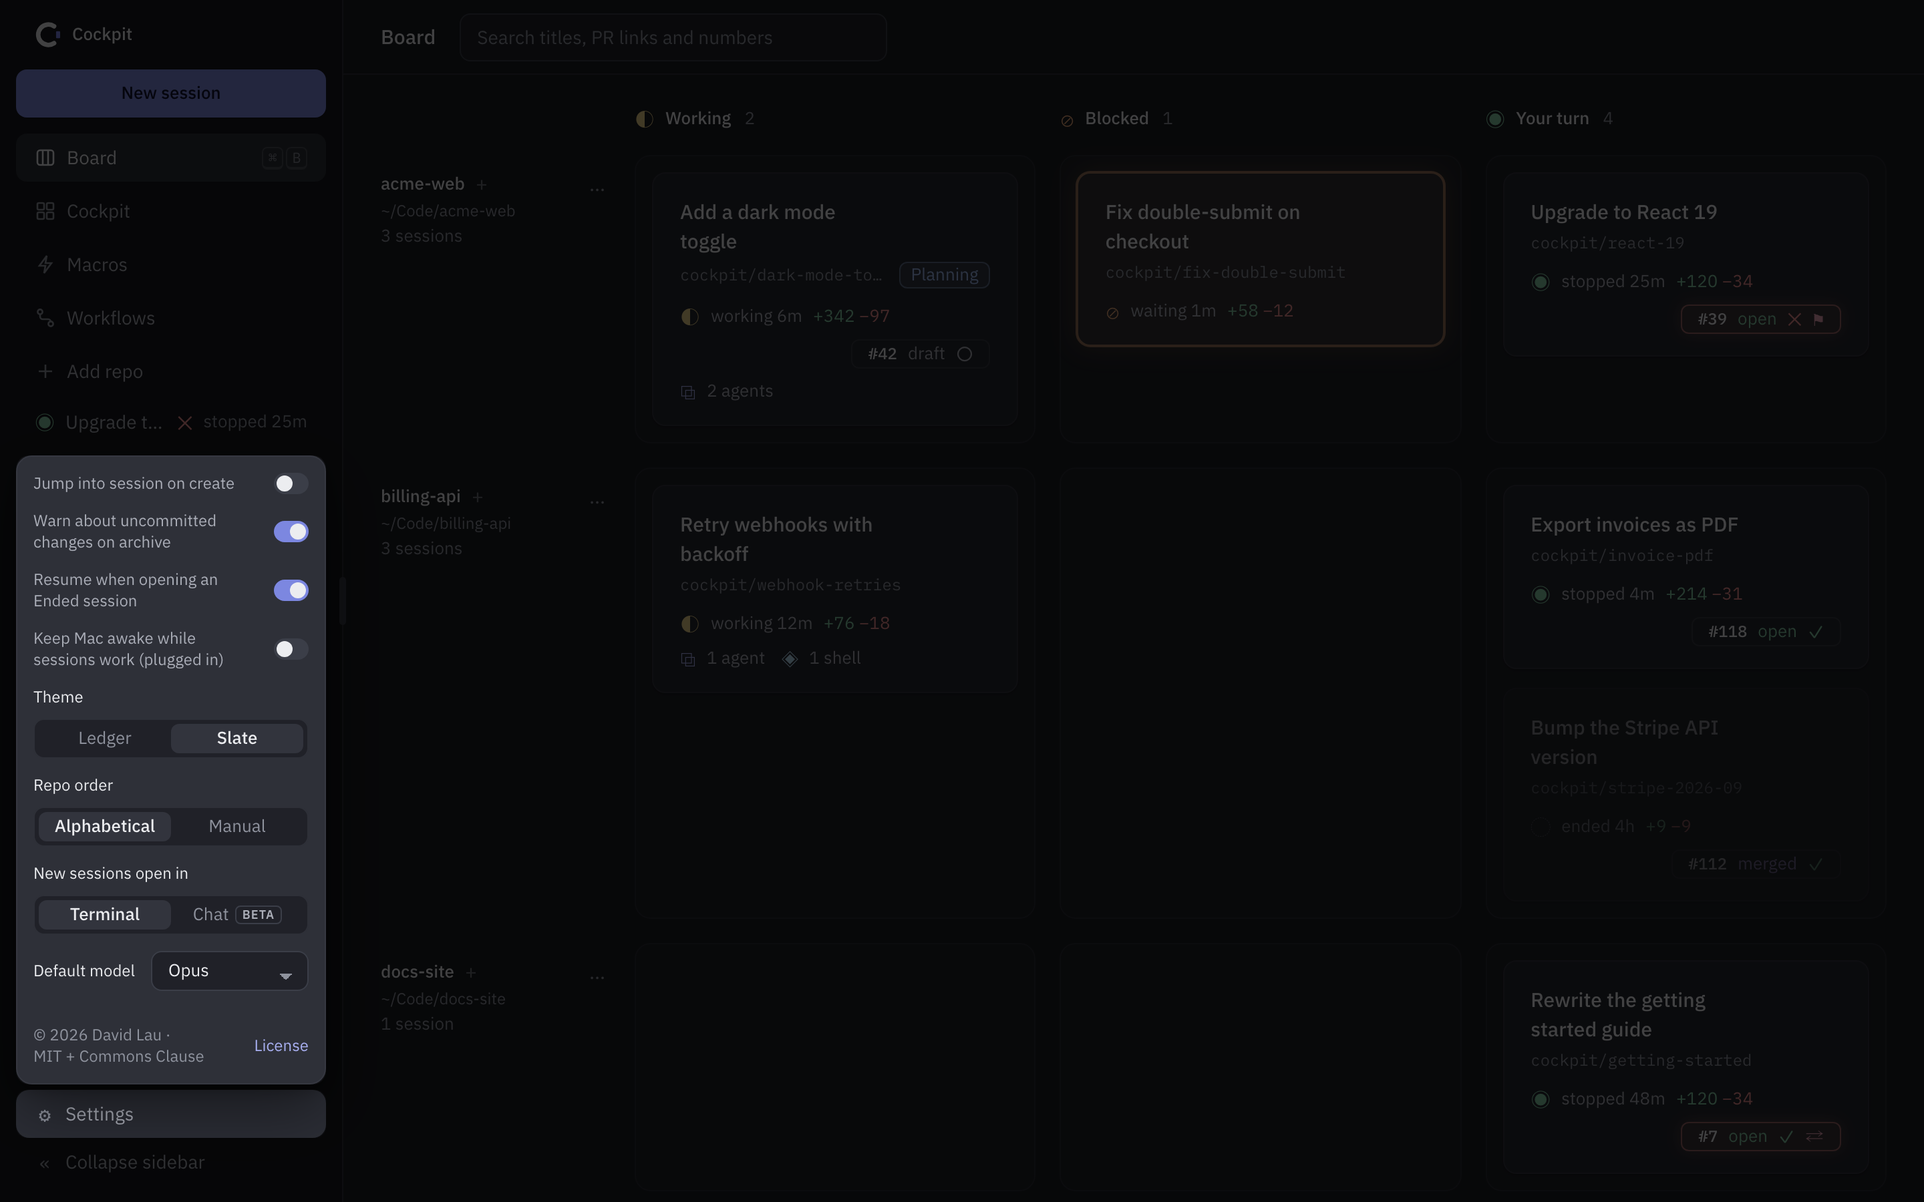
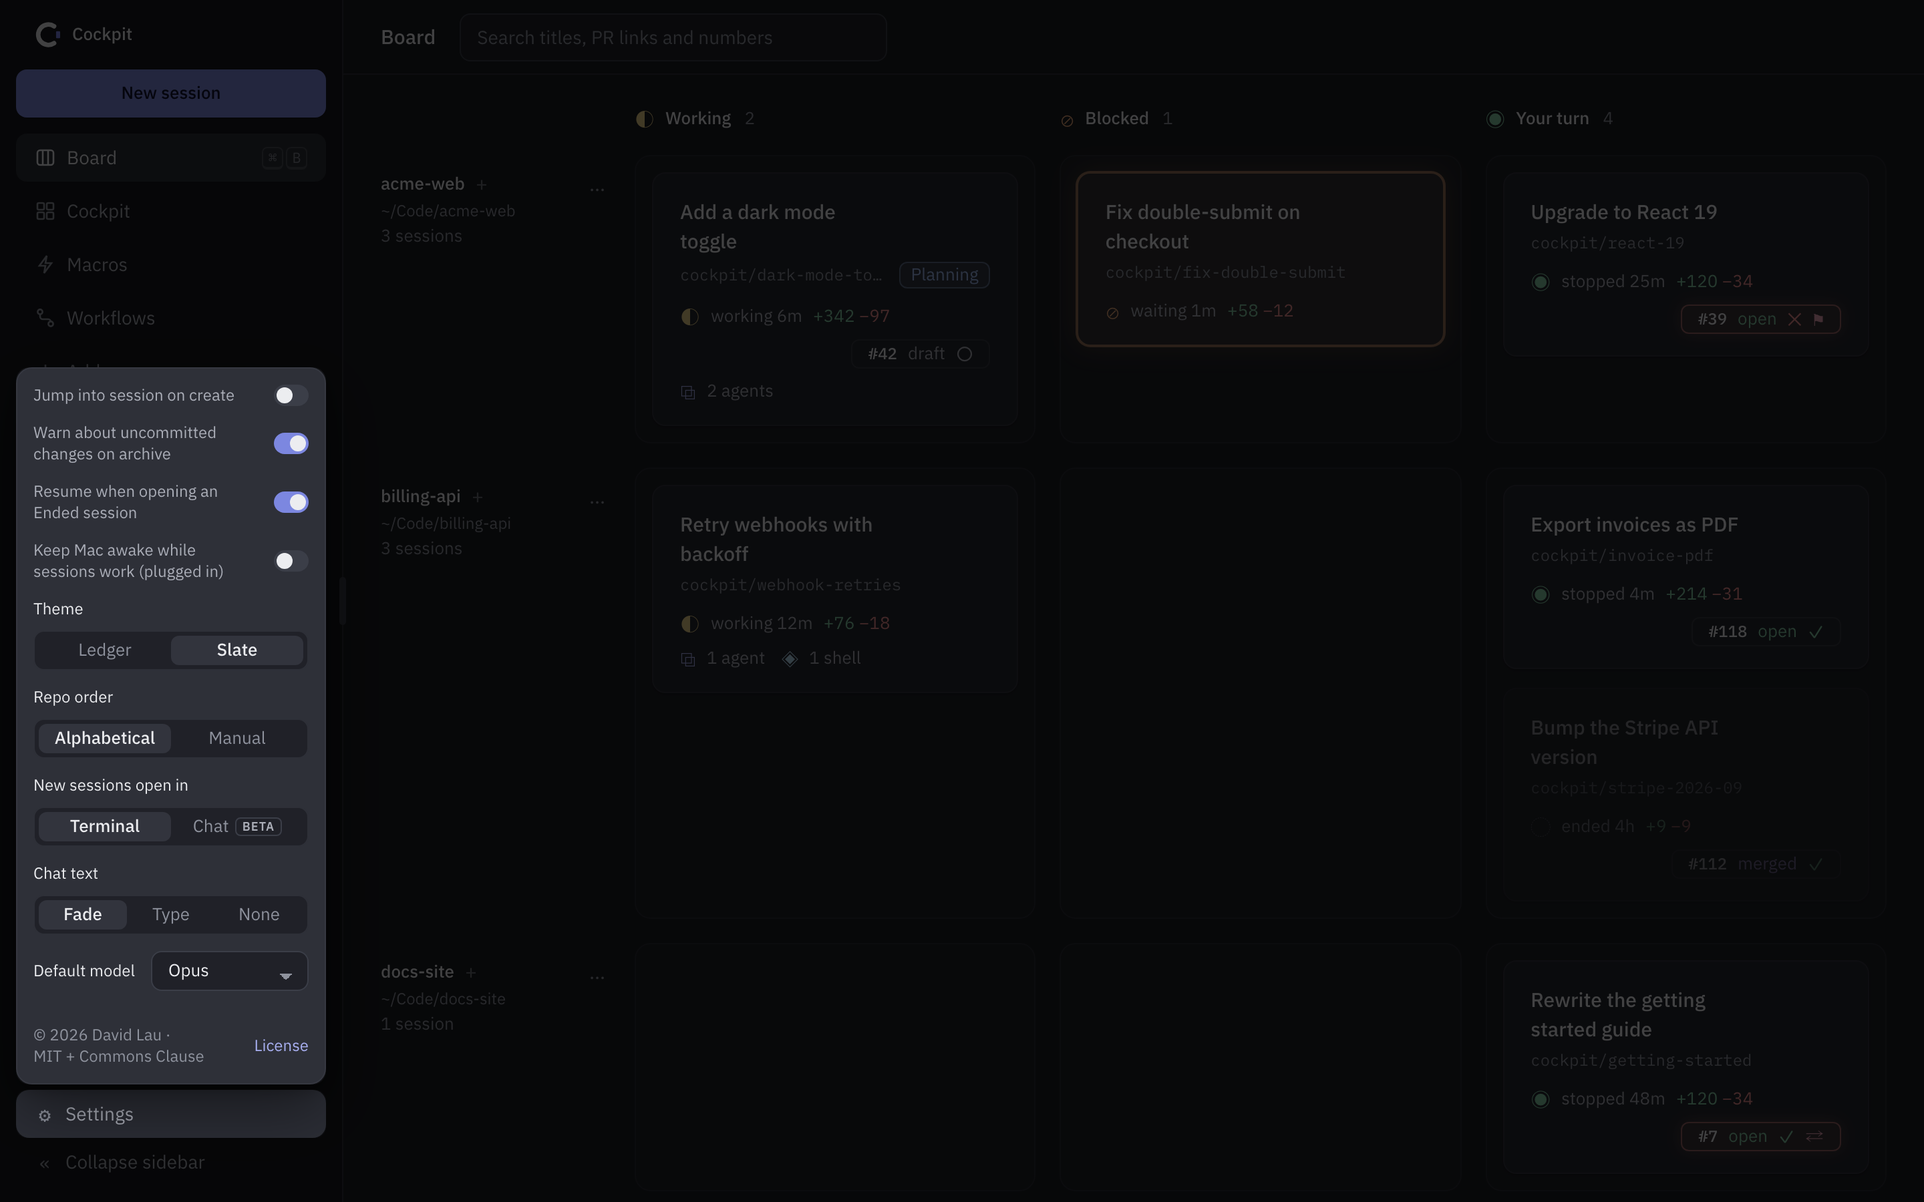
docs: README for v0.15.0 (#27)

Changed region(s): [[0.0, 0.28, 0.1875, 0.6222], [0.0312, 0.6533, 0.1562, 0.7778], [0.125, 0.6844, 0.1562, 0.7156]]

diff --git a/README.md b/README.md
@@ -45,7 +45,7 @@
 
 ### First steps
 
-**1. Add a repo.** Click **Add repo** and pick a local git repo.
+**1. Add a repo.** Click **Add repo**, pick a local git repo, then click **Add repo** in the dialog. Cockpit preselects the repo's default branch; keep it.
 
 ![Add repo on the empty board](docs/screenshots/first-add-repo.png)
 
@@ -76,7 +76,8 @@ One row per repo, one column per state:
 Cards show the branch, time in state, lines changed and the PR badge. The badge turns red on failed CI, requested changes or conflicts; click it to open the PR.
 
 - Rows are in alphabetical order. To set your own order, set **Repo order** to **Manual** in Settings, then drag a repo row.
-- **+** starts a session in that repo. **…** removes a repo with no sessions.
+- **+** starts a session in that repo.
+- **…** → **Default branch…** changes the repo's default branch. **…** → **Remove repo** removes a repo with no sessions.
 - Search by title, PR link or PR number.
 
 ### Starting a session
@@ -85,8 +86,9 @@ Cards show the branch, time in state, lines changed and the PR badge. The badge 
 
 - The defaults work: write a first prompt and create. A blank branch name and title are generated from the prompt.
 - Type `/` for slash commands. Add files by dropping, pasting or **Add files…**.
+- **Base branch** starts on the branch you last used in that repo, else on its default branch. The list has the local branches, then the branches only `origin` has.
 - Each session gets its own worktree in `<repo parent>/.cockpit-worktrees/`, branched from a fresh `origin/<base>`.
-- Sessions use the permission mode you pick (Auto by default), never `--dangerously-skip-permissions`.
+- The chips in the prompt box set the session's permission mode (Auto by default), model and effort. The model starts on **Default model** from Settings. Effort **Default** (the sliders icon) leaves it to your Claude Code settings. Sessions never use `--dangerously-skip-permissions`.
 - Claude can propose a session through Cockpit's `new_session` tool. It opens this form prefilled; nothing starts until you click **Create session**.
 
 ### Session view
@@ -96,7 +98,7 @@ Cards show the branch, time in state, lines changed and the PR badge. The badge 
 | Area | What it shows |
 |---|---|
 | **Terminal** | The real `claude` process. |
-| **Terminal / Chat** | Switches the center between the terminal and the chat of the same process (see below). Each session remembers its choice. |
+| **Terminal / Chat** | The two icons switch the center between the terminal and the chat of the same process (see below). Each session remembers its choice. |
 | **Header** | PR badge, branch, lines changed, uncommitted files, ahead/behind, context use. Click the title to rename. |
 | **Sidebar** | Every session and what it is running. **Collapse sidebar** shrinks it to a rail. |
 | **Side pane** | Files, Diff, PR, Notes, Workflow, and Artifacts (claude.ai pages the session linked, when there are any). The button at the top right hides it. |
@@ -107,24 +109,26 @@ Repos have notes too: click the pencil next to the repo name in the sidebar.
 
 ![Chat view](docs/screenshots/chat.png)
 
-Click **Chat** in the session header to read the session as a chat instead of a terminal. It is the same `claude` process: switching back and forth never restarts or touches it.
+Click the chat icon in the session header (its tooltip reads **Chat (Beta)**) to read the session as a chat instead of a terminal. It is the same `claude` process: switching back and forth never restarts or touches it.
 
 > [!NOTE]
-> Chat is in beta, so both Chat toggles carry a **Beta** tag. The terminal is still the full view: anything the chat can't show, the terminal does.
+> Chat is in beta, so every chat icon carries a **Beta** pill, and the toggle in Settings a **Beta** tag. The terminal is still the full view: anything the chat can't show, the terminal does.
 
 - Your prompts sit on the right, with their images. Claude's replies are formatted text, with their images. An image file shows only if it is inside the session's worktree. An image on GitHub shows too; one from any other site stays a link. An image that can't load shows as its text, a link when it has a web address.
 - Each tool call is one line with its command or file and a ✓ or ✕. Click it to see its input and result. Thinking is a collapsed **Thinking** line.
 - Two or more tool calls in a row fold into one steps line, along with any thinking between them. Each tool call counts as a step. While Claude works, the line shows the step Claude is on, such as **◐ Bash cargo test · 3 steps**, and each new step replaces it. Once the run is over, it reads like **6 steps Bash ×5 · Edit ✓**. If any steps failed, it ends in ✕ and how many failed instead, also while Claude works. Click it to see every step.
 - File paths are links: click one to open it in the Files tab, at its line. <kbd>⌘</kbd>-click a **Read**, **Write** or edit line (**Edit**, **MultiEdit**, **NotebookEdit**) to open its file.
+- Every code block has a copy button in its top-right corner: Claude's code, a tool call's input and result, and command output. It shows while the pointer is over the block or the button has keyboard focus. Click it to copy the block's text. It reads **Copied** for 2 seconds, or **Copy failed** if the clipboard refuses.
 - A subagent's work sits under the **Agent** line that started it. Click it to open the subagent's thread.
 - Subagents, background shells and monitors that are still running are listed above the composer, each with how long it has run. The list stays there while you scroll, and each line goes away when its work ends.
 - `!` commands and slash commands such as `/model` show with their output. `/compact` and interruptions are divider lines.
 - New replies appear within about 2 seconds, a block at a time. The chat follows them while you are at the bottom, and stays put while you scroll up to read.
+- Text that arrives while the chat is open moves in a little: a reply fades up line by line and your prompt fades in. Set **Chat text** to **Type** to have replies type themselves out instead, or to **None** for no motion. What the chat already held when you opened it shows at once, and nothing moves while macOS **Reduce motion** is on.
 - After `/clear` the chat starts empty. After a resume it shows the resumed conversation.
 - In a folder Claude Code hasn't opened before, it first asks in the terminal whether to trust the folder. If a session stays **Starting** for a few seconds, the chat says Claude Code may be waiting for an answer, with **Open in terminal**.
 - When Claude needs an answer, it shows as a card above the composer (see **Answer cards**). Anything the chat can't show reads **Shown in the terminal**, with **Open in terminal**.
 
-To open every new session in Chat, set **New sessions open in** to **Chat** in Settings. The Cockpit view always shows terminals.
+To open every new session in Chat, set **New sessions open in** to **Chat** in Settings.
 
 ### Answer cards
 
@@ -155,11 +159,45 @@ The box under the chat sends your next prompt to Claude, as if you had typed it 
 - Opening a session in Chat puts the cursor in the composer, so you can start typing right away.
 - Press <kbd>↩</kbd> or click **Send**. <kbd>⇧</kbd> <kbd>↩</kbd> starts a new line. Type `/` to pick a slash command.
 - Paste, drop or click **Add files…** to attach screenshots and files, as in the first prompt.
-- It sends when Claude is ready for a prompt: on your turn, and also when Claude has finished but its background shells or subagents still run (a CI watcher, say), unless a macro is waiting on them to type its next command. Otherwise a line says why: **Claude is working**, **Claude is waiting on a question above**, **Starting…** or **Session ended**. You can keep typing; the text waits for you.
+- **Send** sends at once when Claude is ready for a prompt: on your turn, and also when Claude has finished but its background shells or subagents still run (a CI watcher, say), unless a macro is waiting on them to type its next command.
+- While Claude works or waits on a question, <kbd>↩</kbd> queues your message instead, as the line above the box says (its ◐ turns while Claude works). The button reads **Queue**, and the message shows above the box as **Queued**. When Claude's turn ends, it goes in by itself. <kbd>↩</kbd> again adds the new text to it as a new paragraph, and the button reads **Add to queue**. Files you add go with it. One message is queued per session, and it lasts until Cockpit quits.
+- While the session shows **Starting…** or **Session ended**, a line says why you can't send. You can keep typing; the text waits for you.
+- On the queued message, **Edit** puts it back in the box, **Remove** drops it, and **Send now** types it into Claude Code at once: Claude takes it at its next step, in the same turn, and it shows in the chat from there. **Send now** is unavailable while Claude waits on a question, while a macro runs, while the session starts or while text you typed in the terminal waits in Claude's input. Hover it to see why.
+- A queued message is held, not sent, when you interrupted Claude (<kbd>esc</kbd>), when you typed text in the terminal during the turn (**Send anyway** sends it), when the session ended (resume it first) or when sending failed. Keys that type nothing, such as <kbd>⇧</kbd> <kbd>⇥</kbd>, don't hold it. The bubble then says why (**Held · you interrupted Claude, so this wasn't sent**, say) and has a **Send** button.
+- While a message is held and Claude is ready, <kbd>↩</kbd> or **Send** under the box adds your new text to it and sends both.
 - Each session keeps its own draft until you send it, even when you switch views or sessions.
-- Chips at the bottom left show what the terminal's status line shows: the permission mode (**Plan**, **Auto**, **Accept edits** or **Manual**, each in its own colour), the model, the effort level and **thinking off** when thinking is off. They are read only: change them in the terminal (<kbd>⇧</kbd> <kbd>⇥</kbd>, `/model`). After a <kbd>⇧</kbd> <kbd>⇥</kbd>, the mode chip catches up the next time Claude acts: on your turn, that is once you send your next prompt.
-- If Claude Code's input in the terminal holds something, Send waits: text you typed there, or a picker you opened. Keys that leave the input empty don't hold it, such as <kbd>esc</kbd>, <kbd>⇧</kbd> <kbd>⇥</kbd>, or text you typed and erased. A live view of the terminal's last lines shows what you left there. Click **Back to terminal** to finish it there, or **Send anyway** to send the composer's text.
+- Chips at the bottom left show the permission mode, model and effort, and change them (see [Run settings](#run-settings)).
+- If Claude Code's input in the terminal holds something, Send waits: text you typed there, or a picker you opened. Keys that leave the input empty don't hold it, such as <kbd>esc</kbd>, <kbd>⇧</kbd> <kbd>⇥</kbd>, or text you typed and erased. The run chips are locked too. A live view of the terminal's last lines shows what you left there. Click **Back to terminal** to finish it there, or **Send anyway** to send the composer's text.
 - A picker opened by a command from the composer, such as `/model`, holds Send the same way until you close it in the terminal. A command that leaves the input empty, such as `/cost`, doesn't.
+
+![Composer with a queued message](docs/screenshots/composer-queued.png)
+
+### Run settings
+
+![Run settings](docs/screenshots/run-chips.png)
+
+The chips at the bottom left of the composer show what the terminal's status line shows: the permission mode (**Plan**, **Auto**, **Accept edits** or **Manual**, each in its own colour), the model, the effort level and **thinking off** when thinking is off.
+
+- Click the mode, model or effort chip and pick a value. Cockpit restarts Claude with it, in the same conversation. **Restarting Claude…** shows until it is your turn again.
+- The chips change only on your turn, or once Claude has finished and only background work still runs. Otherwise they are locked, and hovering one says why.
+- If background shells, subagents or monitors still run, the menu asks first and lists them. **Restart** stops them and restarts Claude; **Cancel** keeps them running.
+- A <kbd>⇧</kbd> <kbd>⇥</kbd> in the terminal changes the mode too. The mode chip catches up the next time Claude acts: on your turn, that is once you send your next prompt.
+- If Claude can't start again, the session ends and the composer says why. **Resume** starts it with the values you picked.
+
+> [!NOTE]
+> In Plan mode, Claude Code currently runs Sonnet when Haiku is picked, so the model chip shows Sonnet. The model menu still ticks Haiku and says "Plan mode runs Sonnet" under it, in the composer and in the New session form. In other modes Haiku runs without an effort level, and the effort menu says so.
+
+### Reply to a selection
+
+![Reply to a selection](docs/screenshots/chat-reply.png)
+
+Answer one part of a reply without retyping it.
+
+- Select any text in the chat and click **Reply**. Type your reply and press <kbd>↩</kbd> or click **Add**. <kbd>⇧</kbd> <kbd>↩</kbd> starts a new line, and <kbd>esc</kbd> or a click elsewhere cancels.
+- Each reply waits above the composer as a chip: the text you selected, then your reply. Hover a chip to read it in full, or click **×** to remove it.
+- Add as many as you like, then write the rest of your prompt and press **Send**. Claude gets each selection quoted, with your reply under it, before the text you typed. A slash command you typed goes first instead, so Claude Code still runs it, with the replies after it.
+- While the reply box is open, the chat stops following new messages, so the text you selected stays put.
+- Replies stay in the session's draft until you send it, like the rest of the draft.
 
 ### Files
 
@@ -170,13 +208,14 @@ The box under the chat sends your next prompt to Claude, as if you had typed it 
 - <kbd>⌘</kbd>-click a file path in the terminal, like `src/App.tsx:120`, or click one in the chat, to open it here. The tree opens to the file, and the viewer scrolls to that line and highlights it.
 - **Pop out** shows the file over the terminal.
 
-### Main branch
+### Default branch
 
-![A repo's main branch](docs/screenshots/repo-main.png)
+![A repo's default branch](docs/screenshots/repo-main.png)
 
-- Click a repo's name in the sidebar to browse its main branch, no session needed.
-- Cockpit reads the first branch that exists of `origin/main`, `main`, `origin/master` and `master`. The header shows it and its commit, e.g. `origin/main @ 8e2f9a1`.
-- It shows what is committed, not the repo folder's uncommitted edits, and leaves submodules out. It never fetches: `origin/main` is as fresh as your last `git fetch`.
+- Click a repo's name in the sidebar to browse its default branch, no session needed.
+- The default branch is set per repo. **Add repo** preselects the one GitHub reports, else the one `origin/HEAD` points at, else `main` or `master`. Change it with **…** → **Default branch…** on the board.
+- Cockpit reads `origin/<default>`, else the local `<default>`. The header shows it and its commit, e.g. `origin/main @ 8e2f9a1`.
+- It shows what is committed, not the repo folder's uncommitted edits, and leaves submodules out. It never fetches: `origin/<default>` is as fresh as your last `git fetch`. If neither branch exists, the view says so and points to **Default branch…**.
 - **Reload** reads the branch again. Same viewer as the Files tab: highlighted code, rendered Markdown with **Source**. Images there stay links.
 
 ### Diff
@@ -193,12 +232,14 @@ The box under the chat sends your next prompt to Claude, as if you had typed it 
 ![PR tab](docs/screenshots/pr.png)
 
 - Description, checks, review, unresolved threads and a GitHub link, read through your `gh` login.
+- The header shows where the PR goes, in GitHub's order: `main ← fix/login`, the branch it merges into, then its own branch. The confirm button names it too: **Confirm squash into main**.
 - The description shows its images: pasted screenshots, images from the repo and badges, private repos included. They load through `gh` too. An image that can't load shows as its text, a link when it has a web address.
-- Merge or squash-merge after a confirm. Cockpit remembers your last method.
-- **Update branch** when the branch is behind.
+- Merge or squash-merge after a confirm. The menu offers only the methods the repo and the rules on the PR's base branch allow. Cockpit remembers your method per repo and base branch.
+- When no method is allowed (a base that takes only rebase merges, say), the tab says why. Merge on GitHub.
+- **Update branch** when the branch is behind. When the PR's own branch is protected on GitHub (a long-lived branch such as `dev`), Cockpit leaves it to GitHub: no **Update branch**, and GitHub keeps the branch after the merge even when the repo deletes merged branches.
 - A draft PR gets **Ready for review** in place of the merge button. One click marks it ready on GitHub.
 - Refreshes every ~30 s, or on demand.
-- A session's PR is the one whose branch matches the session's. When the names differ, Claude can link an existing PR of the repo through Cockpit's `link_pr` tool. The badge tooltip then says "linked by the agent", and the PR tab shows the PR's head branch. Claude can remove the link the same way.
+- A session's PR is the one whose branch matches the session's. When the names differ, Claude can link an existing PR of the repo through Cockpit's `link_pr` tool. The badge tooltip then says "linked by the agent", and the PR tab's header shows the PR's own branch. Claude can remove the link the same way.
 
 ### Macros
 
@@ -239,9 +280,12 @@ A workflow is a list of prompts and macros you step through, e.g. build → revi
 
 ![Cockpit view](docs/screenshots/cockpit.png)
 
-Every running session's terminal in one grid. Answer prompts without switching sessions.
+Every running session in one grid, as its terminal or its chat. Answer prompts without switching sessions.
 
-- Blocked tiles glow. A pill points to blocked tiles scrolled out of view.
+- Each tile shows the session's own view. The terminal and chat icons in its header switch it, and the session view follows.
+- A chat tile has what the session's chat has: running work, answer cards and the composer.
+- **All tiles**, above the grid, switches every tile at once. It shows a view only while every tile is on it.
+- Blocked tiles glow. A pill points to blocked tiles scrolled out of view: click it to jump there, ready to answer.
 - ⤢ opens the session.
 
 ### Resume and archive
@@ -251,7 +295,7 @@ Every running session's terminal in one grid. Answer prompts without switching s
 | | |
 |---|---|
 | **Resume** | An Ended session keeps its card. Opening it runs `claude --resume` (unless turned off in Settings). The header has a **Resume** button too. |
-| **Archive** | Stops Claude, deletes the worktree and the branches Cockpit created. Keeps branches that already existed. Never touches the remote. Warns first about uncommitted changes and unpushed commits. |
+| **Archive** | Stops Claude, deletes the worktree and the branches Cockpit created. Keeps branches that already existed, the repo's default branch, `main`, `master` and the PR's base branch. Never touches the remote. Warns first about uncommitted changes and unpushed commits. |
 
 ### Usage meters
 
@@ -273,6 +317,7 @@ The sidebar footer shows your plan's 5-hour and weekly limits: % used and reset 
 | Default model | Opus |
 | Repo order | Alphabetical (**Manual** keeps the order you drag repo rows into on the Board) |
 | New sessions open in | Terminal (**Chat** opens new sessions in the chat view) |
+| Chat text | Fade (how new chat text appears: **Fade** line by line, **Type** letter by letter, or **None**) |
 | Beta builds | Off (installed app only, see [Beta builds](#beta-builds)) |
 
 The installed app also shows its version and **Check for updates**. The last row, **License**, shows Cockpit's license and the licenses of the open-source software it includes. **Cockpit → About Cockpit** shows the version and the copyright.
